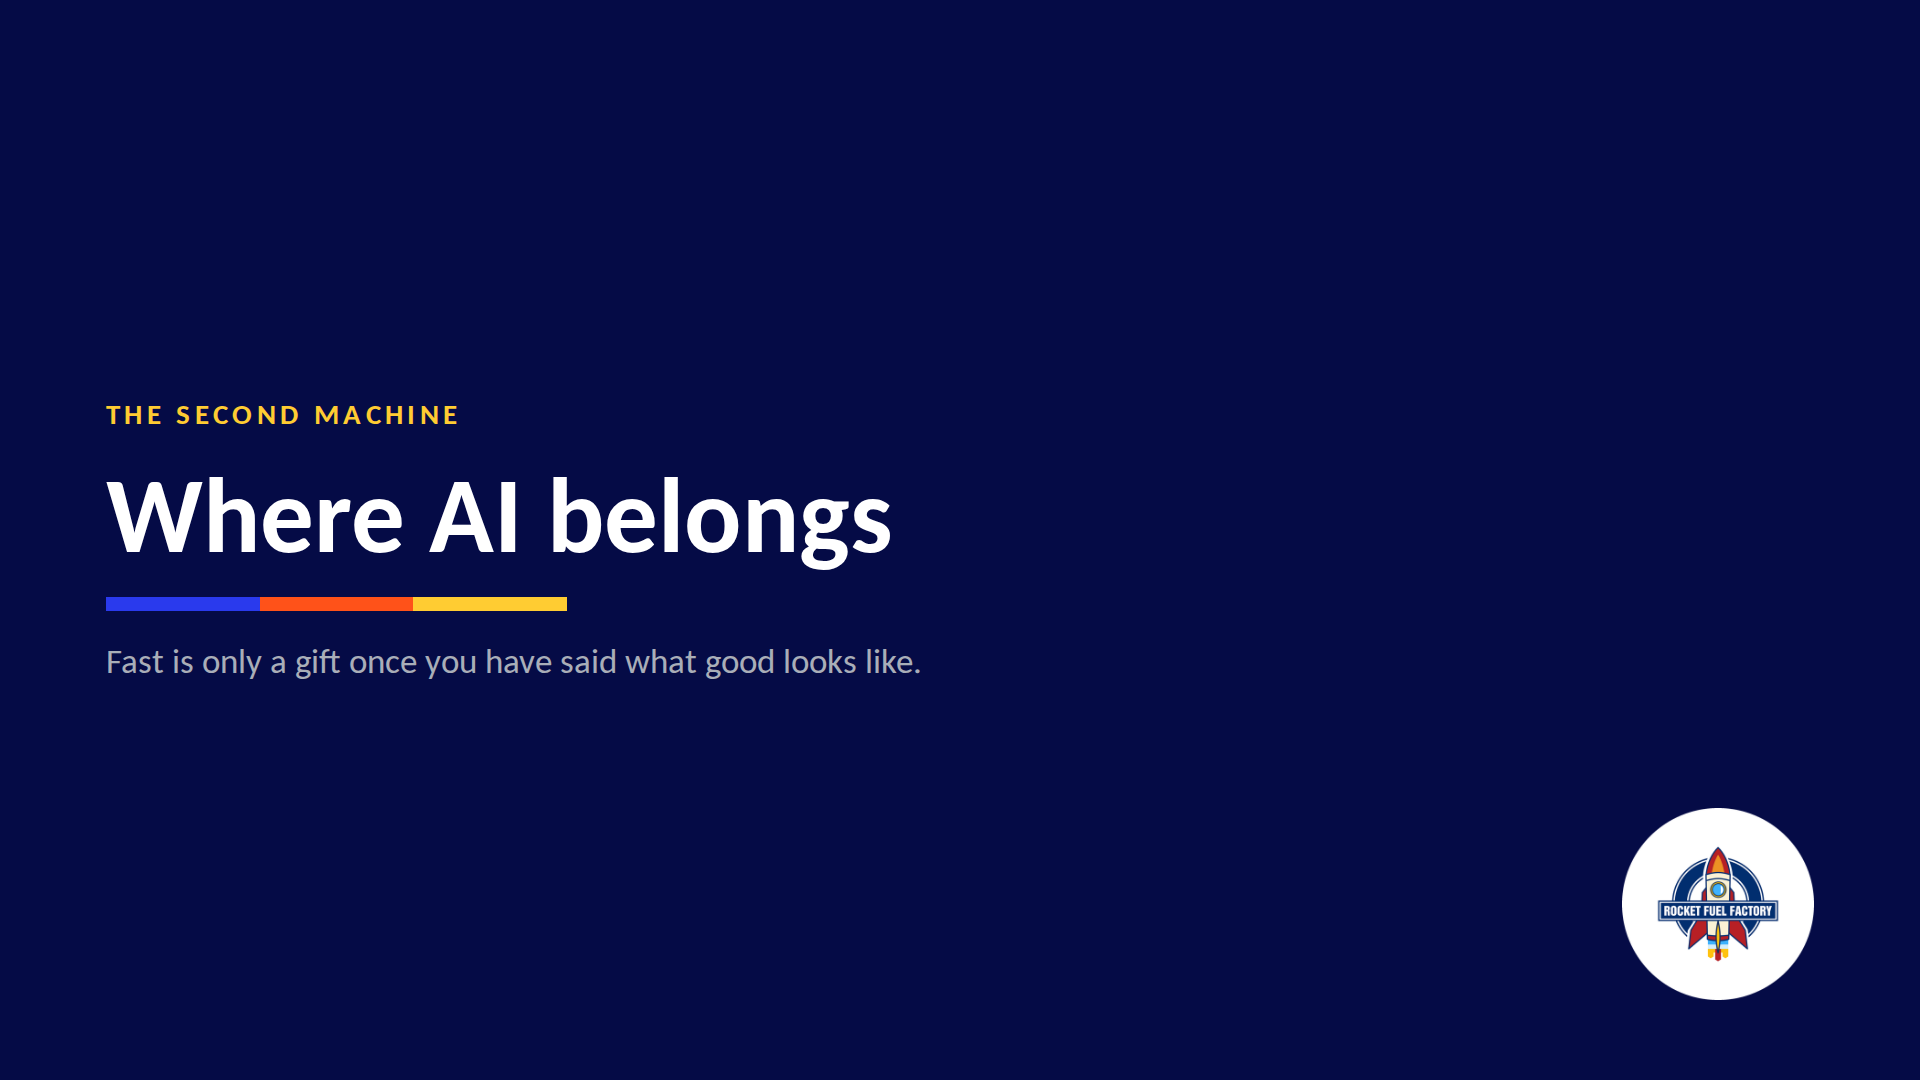
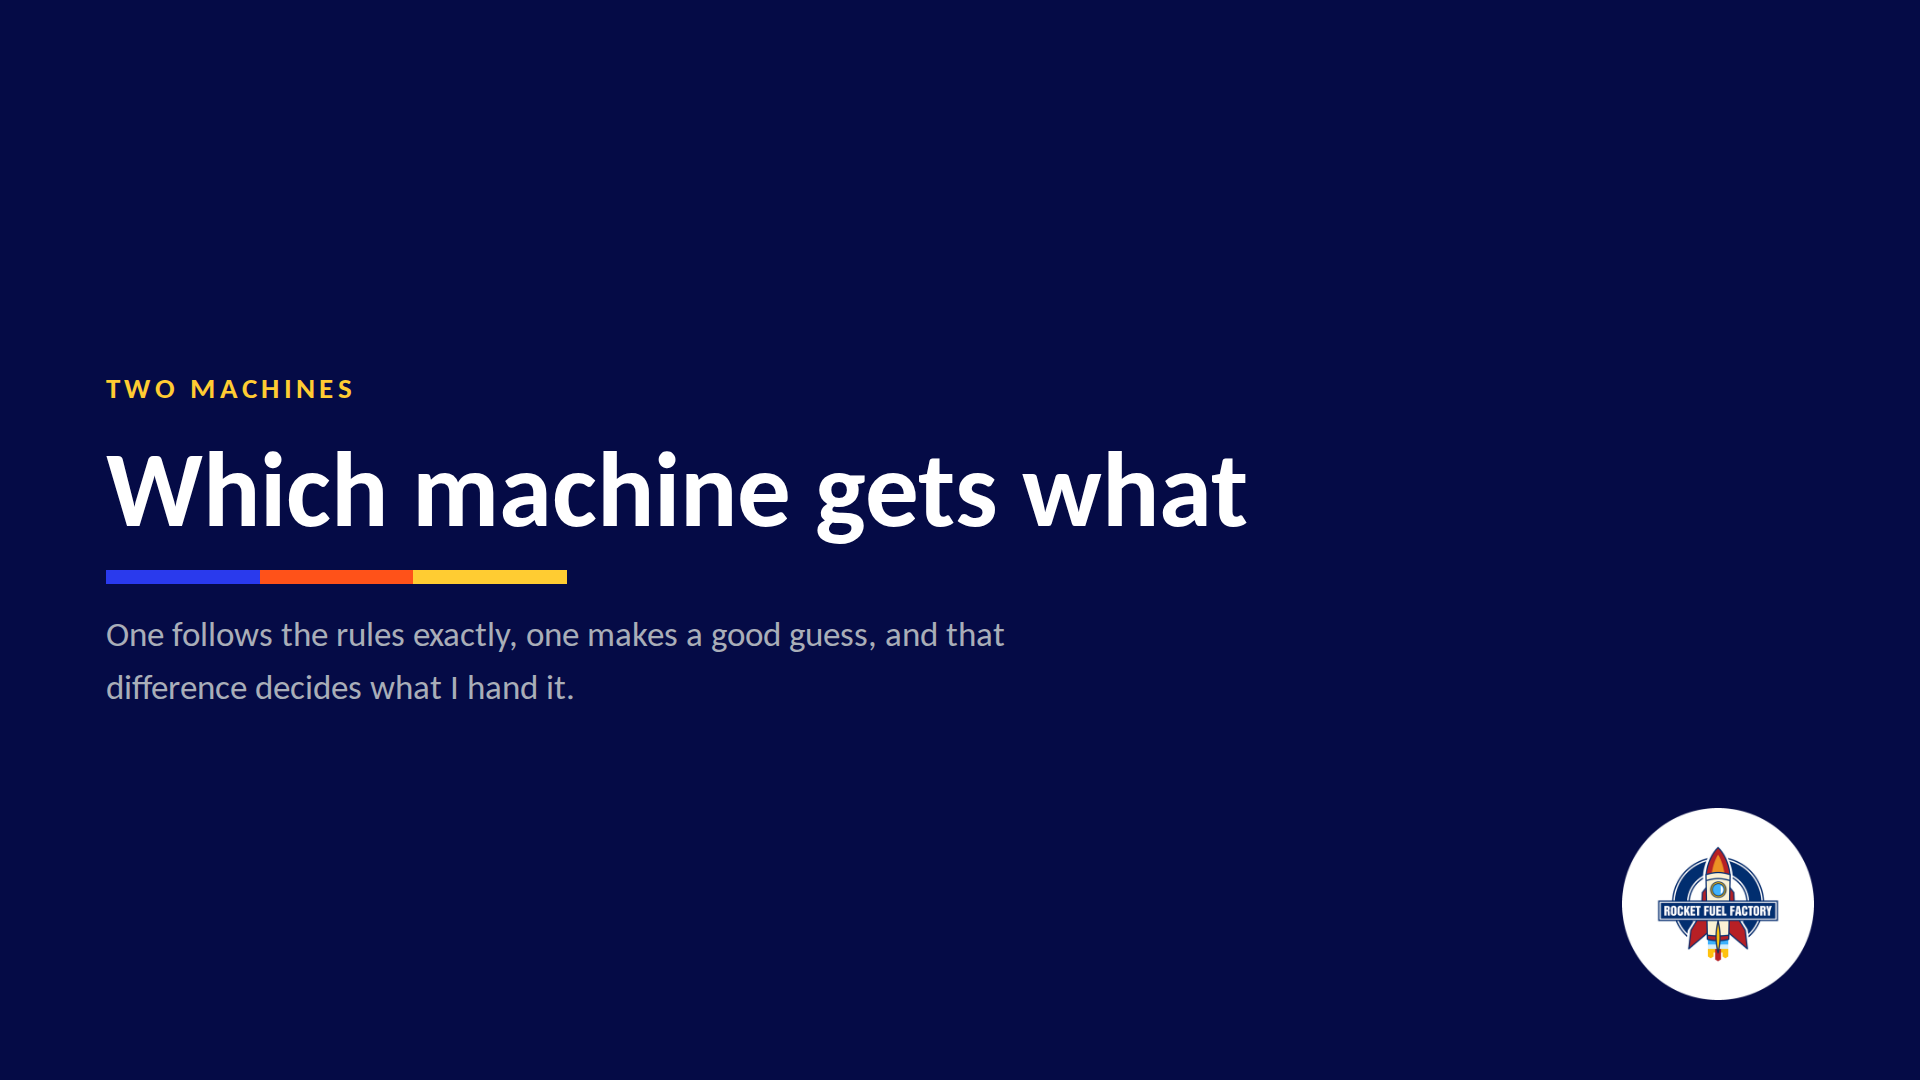
Slide 14 divider: two machines, which gets what; duplicate bridge cut from 13

Changed region(s): [[0.0312, 0.3361, 0.6562, 0.6722]]

diff --git a/src/data/notes.js b/src/data/notes.js
@@ -16,8 +16,8 @@ export const notes = {
   'demo-ask': 'Target 6:30. Here is what worked. We did not type try again, and we did not fix the email ourselves. We asked it what we should have told it in the first place. It gave us five things. Who is actually reading this, and what is their relationship to the outage. What on top of it was supposed to mean. Whether the Q2 detail was a feature or a liability. What tone. Whether there was a business ask riding along. We knew the answer to every one of those before we typed a word. We just never wrote them down. And it owned the leak. It called the Q2 sentence the single riskiest line in the ticket, said it could read either as we caught this or as we knew and did nothing, and admitted it had made that call for us without asking. It knew it was guessing. It will tell you, if you ask. Try this tonight on the last answer that disappointed you.',
   'aharons-law': 'Target 10:40. SLOW. We built computers to be automation machines, and most of us are afraid to actually automate anything with them. I think this is why. Aharon Chernin, who I work with, puts it this way: you can\'t automate a process that doesn\'t exist. I have been quoting that for years and it means something different to me every time. Here is what it means to me today. Having a process is not the same as having someone who knows how it is done. Most of what we call a process is the second thing. The first time you try to automate it, you find out which one you have, because the machine cannot ask what you meant. That is worth an afternoon even if nothing ships. Here is the same thing happening to a checklist instead of an email.',
   'exists-means-said-out-loud': 'Target 11:10. A client calls: one of their people is leaving on Friday. We have a checklist for that. It is a good one, six steps, and everyone follows it. Mike wrote it, and Mike is on vacation this week, so Chris covers for him and works down the list. One line says cancel software licenses, so Chris cancels Microsoft 365, ticks the box, and closes the ticket. Nothing looks wrong. A year later you reconcile the Adobe bill and find nine seats for people who no longer work there. Nobody skipped a step. To Mike, that line means Microsoft, Adobe, and the two tools he set up for that client, because he set them up. To Chris it means Microsoft. Same words, and the meaning lives in one person. This is the email again. On top of it meant something specific in one head and nothing specific anywhere else. Here is what that costs. Mike cannot take a vacation, because the process is him. Every departure gets handled twice, once wrong by Chris, once right by the expensive person. And the hire that covers for Mike is not for the work. It is insurance against a definition of done that lives in one person. So here is the test I use. A step is only documented if someone else can follow it without asking for help. Chris needed help. That line failed the test, and nobody knew until the invoice. The fix for that line is an hour. Sit down with Mike, ask him which licenses, and write down what he says. After that Chris can run it without asking, and so can a machine. The problem is that it is one line on one list, and Mike owns forty lists like it. That is what doing more without adding bodies means: fewer people needed to make a process safe. It is true of any process that lives in one person, and it is why so many of us automate the wrong ones.',
-  'the-wrong-things': 'Target 13:10. So the process is written down. Where do we point the machine? Here is what I keep seeing. The left column is what is being sold to MSPs right now, and it is being sold hard. An agent that answers the phone. An agent in the client\'s Teams. Password resets nobody touches. A quarterly review that writes itself. The right column is what I think we are actually buying. A phone that does not ring. A ticket that closes without a conversation. If I am honest, I think we buy these because deep down a lot of us do not like talking to customers, or we are a little afraid to. The call is the part of the day where something can go wrong in front of someone. Every one of those sounds like relief, and I get it. Here is the problem. The call you did not take is the call where you would have heard that Dana is shopping for a new MSP. The review meeting you skipped is the meeting where the next thing you sell them gets sold. Those conversations are the only part of this business a competitor cannot undercut on price. I am not saying the tools are bad. Some of them are very good at what they do. I am saying the aim is wrong. In the demo, the machine wrote the draft and I made the call to Dana. The machine never talked to her. That split is the whole point. The work that eats the day is on our side of the desk, reading one screen and typing into another, chasing the same approval, checking the same thing every morning. Nobody is going to miss doing that. Point the machine there, and spend the hours you get back in front of the customer. Once that work is written down, there are two very different machines that can take it, and the next three slides are about which one gets what.',
-  'divider-where-ai-belongs': 'Target 15:10. Transition. Speed is what these machines give you unconditionally. It exposes bad instructions instantly and executes them instantly. Fast is only a gift once you have said what good looks like.',
+  'the-wrong-things': 'Target 13:10. So the process is written down. Where do we point the machine? Here is what I keep seeing. The left column is what is being sold to MSPs right now, and it is being sold hard. An agent that answers the phone. An agent in the client\'s Teams. Password resets nobody touches. A quarterly review that writes itself. The right column is what I think we are actually buying. A phone that does not ring. A ticket that closes without a conversation. If I am honest, I think we buy these because deep down a lot of us do not like talking to customers, or we are a little afraid to. The call is the part of the day where something can go wrong in front of someone. Every one of those sounds like relief, and I get it. Here is the problem. The call you did not take is the call where you would have heard that Dana is shopping for a new MSP. The review meeting you skipped is the meeting where the next thing you sell them gets sold. Those conversations are the only part of this business a competitor cannot undercut on price. I am not saying the tools are bad. Some of them are very good at what they do. I am saying the aim is wrong. In the demo, the machine wrote the draft and I made the call to Dana. The machine never talked to her. That split is the whole point. The work that eats the day is on our side of the desk, reading one screen and typing into another, chasing the same approval, checking the same thing every morning. Nobody is going to miss doing that. Point the machine there, and spend the hours you get back in front of the customer.',
+  'divider-where-ai-belongs': 'Target 15:10. The work is written down, so now I pick who does it. I have two machines and they are not the same. One follows the rules exactly. One makes a good guess. The next three slides are how I split the work between them, how I wire them together, and what it costs me to check.',
   'deterministic-vs-probabilistic': 'Target 15:40. Line to land: you already run a probabilistic system, it is called a tech at 4pm on a Tuesday. Read both columns aloud.',
   'guardrail-sandwich': 'Target 17:40. Callback to Right of Boom, two minutes not eight. Emphasize the check step. Land on: the AI never touches the customer or the record unguarded.',
   'honest-limit': 'Target 20:10. Line to land: the cost of AI is not tokens, it is review. A client cannot audit a vibe, they can audit a log. Sets up Bradley at 3:15.',

diff --git a/src/components/slides/015-DividerWhereAiBelongs.jsx b/src/components/slides/015-DividerWhereAiBelongs.jsx
@@ -1,13 +1,15 @@
 import SectionDivider from '../layouts/SectionDivider'
 
+// Opens the question slides 15 to 17 answer: two machines can take the work
+// once it is documented, and they are not interchangeable.
 export default function DividerWhereAiBelongs() {
   return (
     <SectionDivider
       variant="dark"
       pillar="gold"
-      eyebrow="The second machine"
-      title="Where AI belongs"
-      description="Fast is only a gift once you have said what good looks like."
+      eyebrow="Two machines"
+      title="Which machine gets what"
+      description="One follows the rules exactly, one makes a good guess, and that difference decides what I hand it."
     />
   )
 }
